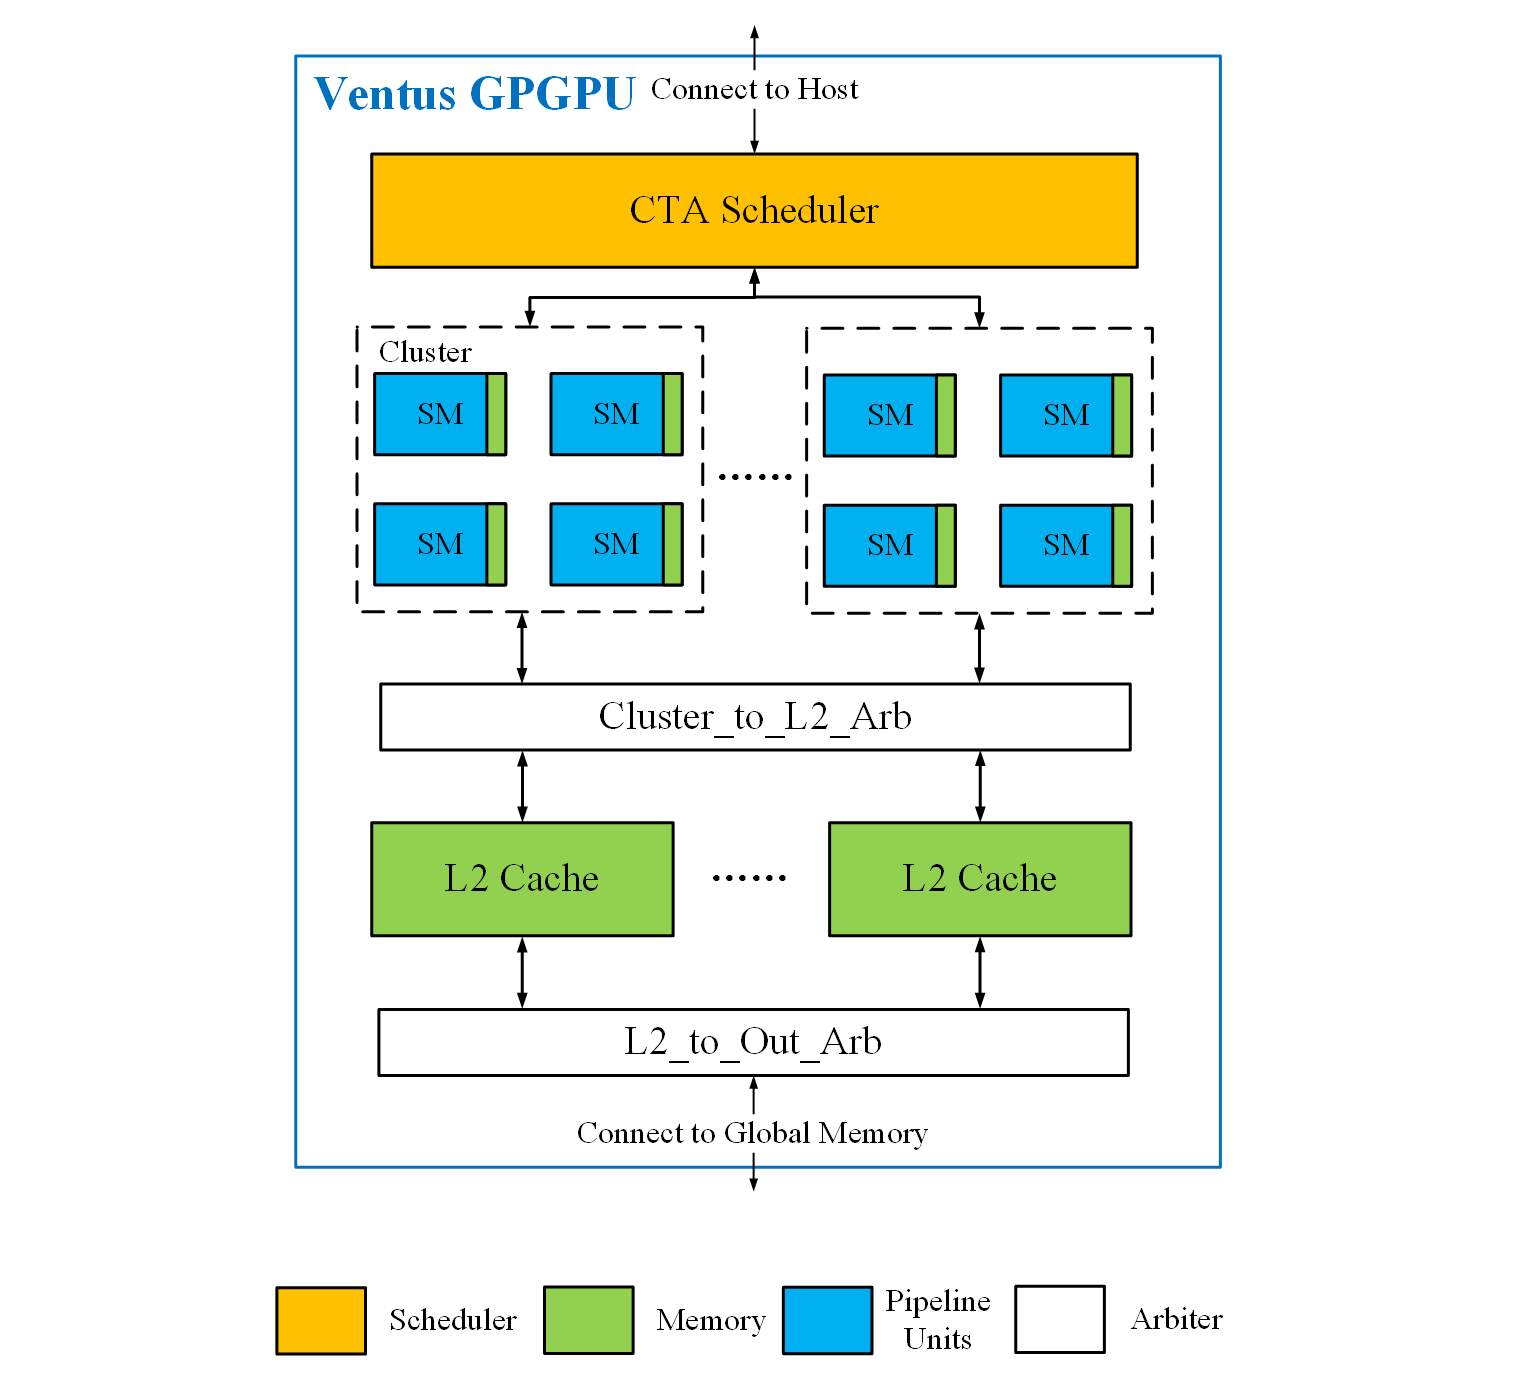
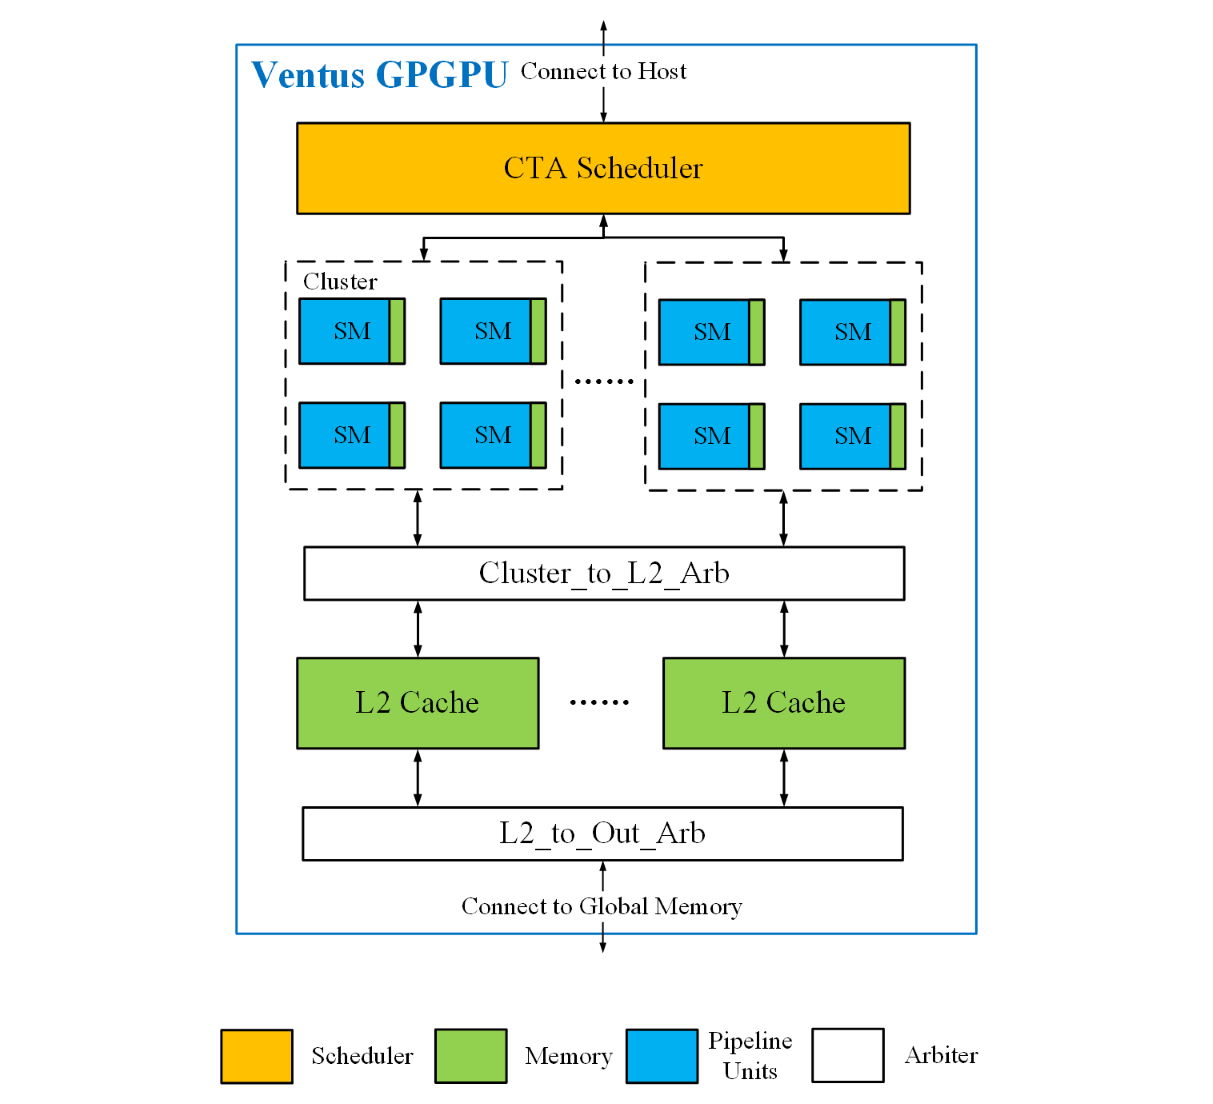
change picture size

diff --git a/README.md b/README.md
@@ -1,4 +1,4 @@
-![](https://github.com/THU-DSP-LAB/ventus-gpgpu-verilog/blob/main/docs/images/ChinaCore_logo.jpg)
+![](https://github.com/THU-DSP-LAB/ventus-gpgpu-verilog/blob/docs/docs/images/ChinaCore_logo.jpg)
 
 # Ventus GPGPU(Verilog Edition)
 
@@ -14,15 +14,15 @@ Copyright (c) 2023-2024 C\*Core Technology Co.,Ltd,Suzhou.
 
 ## Architecture
 
-乘影的硬件架构文档在[这里](https://github.com/THU-DSP-LAB/ventus-gpgpu-verilog/blob/main/docs/ventus-gpgpu-verilog-release-v1.0-spec.pdf)
+乘影的硬件架构文档在[这里](https://github.com/THU-DSP-LAB/ventus-gpgpu-verilog/blob/docs/docs/ventus-gpgpu-verilog-release-v1.0-spec.pdf)
 
 承影的硬件结构框图如下所示:
 
-![](https://github.com/THU-DSP-LAB/ventus-gpgpu-verilog/blob/main/docs/images/ventus_verilog_arch1.png)
+![](https://github.com/THU-DSP-LAB/ventus-gpgpu-verilog/blob/docs/docs/images/ventus_verilog_arch1.png)
 
 SM核的硬件结构框图如下所示:
 
-![](https://github.com/THU-DSP-LAB/ventus-gpgpu-verilog/blob/main/docs/images/ventus_verilog_arch2.png)
+![](https://github.com/THU-DSP-LAB/ventus-gpgpu-verilog/blob/docs/docs/images/ventus_verilog_arch2.png)
 
 ## Getting started
 
@@ -49,7 +49,7 @@ make verdi
 
 ## Case Description
 
-![](https://github.com/THU-DSP-LAB/ventus-gpgpu-verilog/blob/main/docs/images/test_20240527.png)
+![](https://github.com/THU-DSP-LAB/ventus-gpgpu-verilog/blob/docs/docs/images/test_20240527.png)
 
 ## Acknowledgement
 
